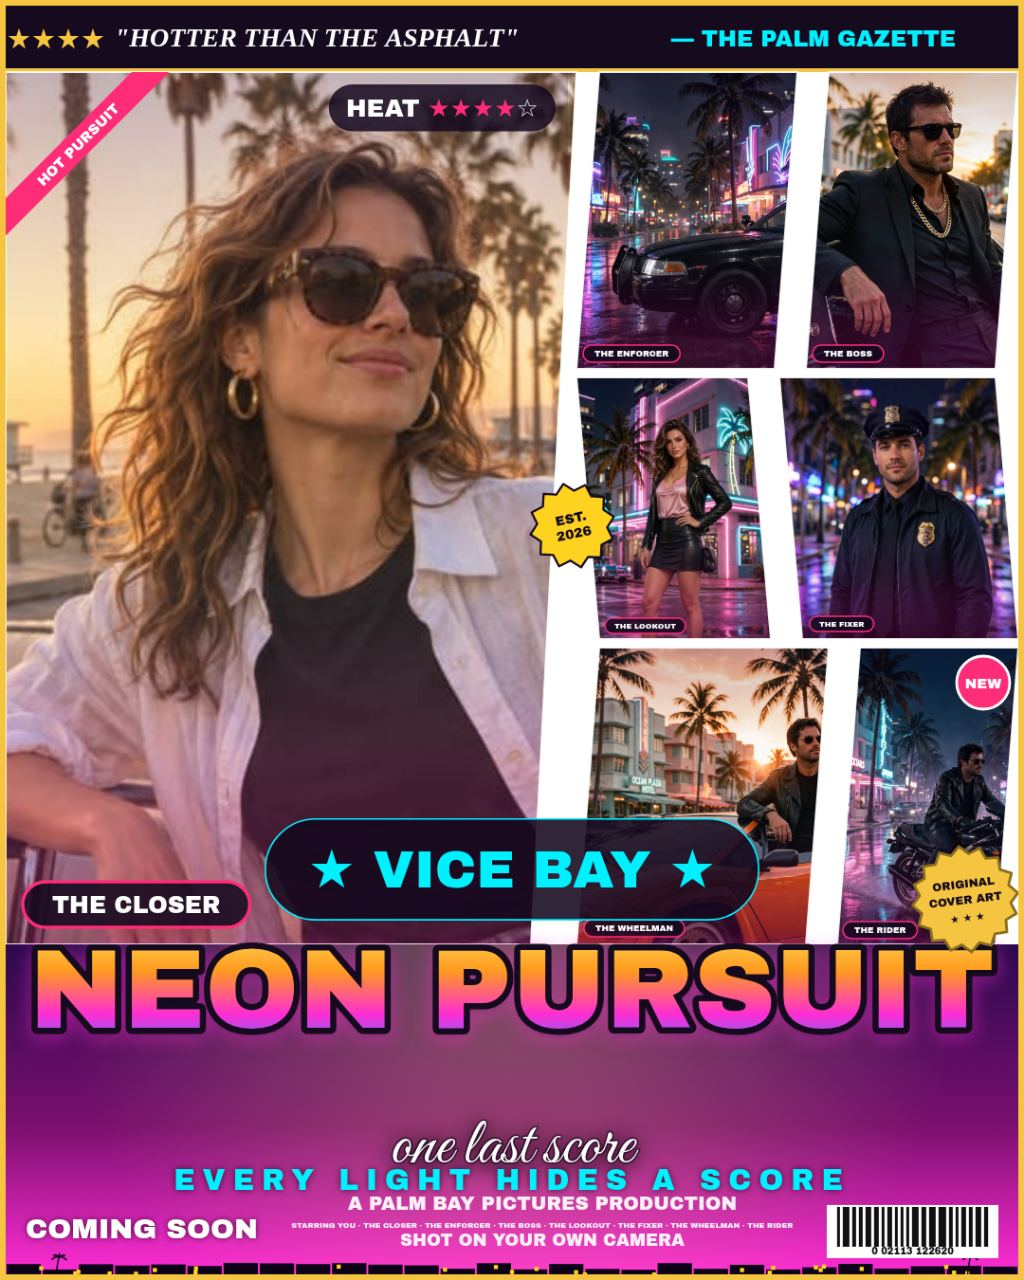
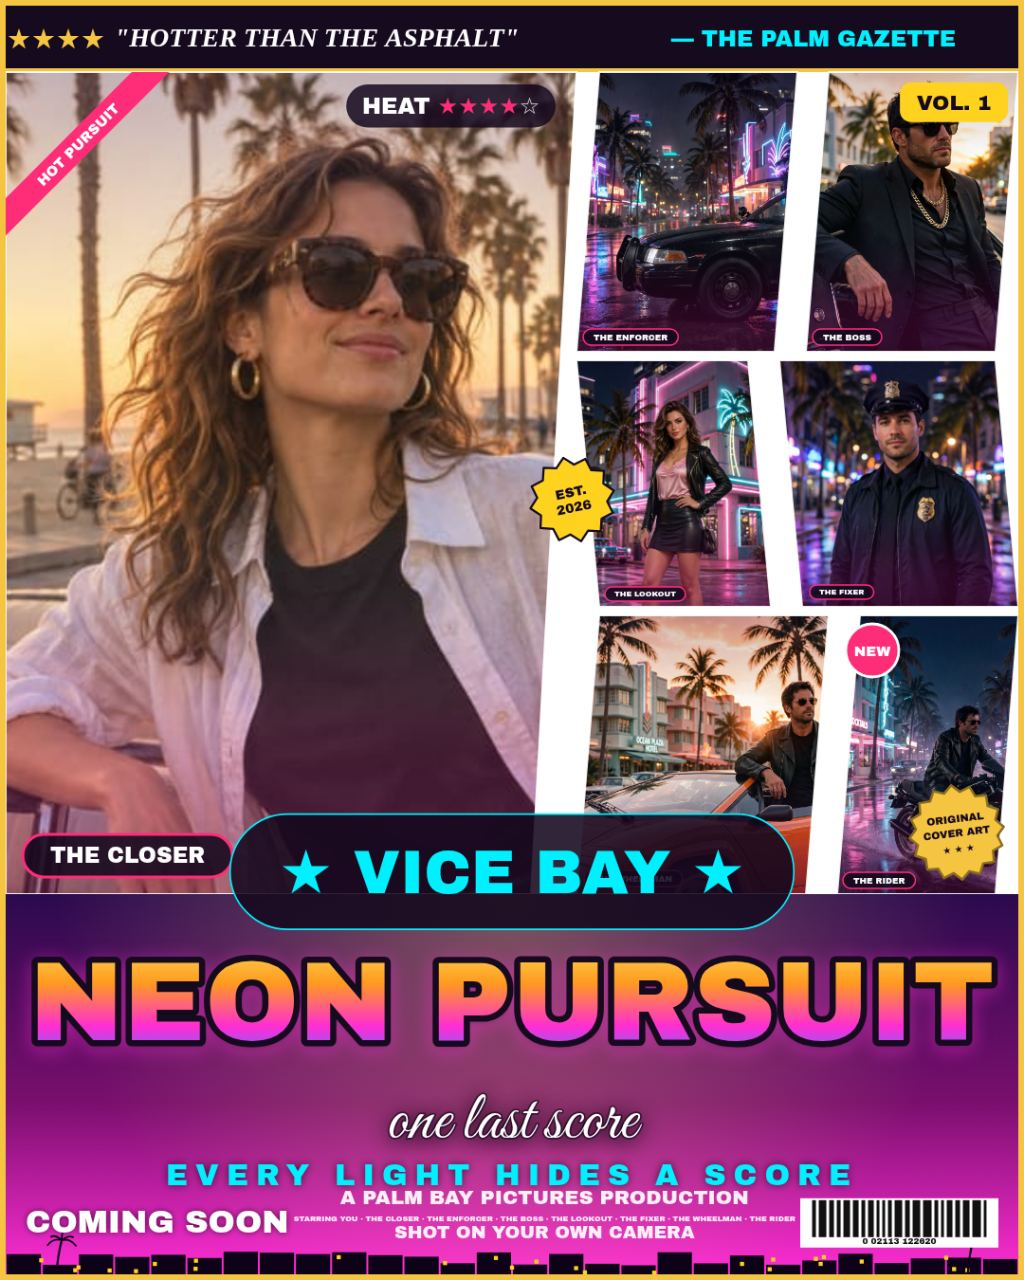
v2 fix3: chrome-striped 3D title, billing clearance, seal repositioned, VOL. 1 + taller skyline
- Title: chrome-striped gradient (PALM FEVER style) + dark 3D extrusion,
  banner 0.26->0.30 so the title is ~15% bigger; width-limited titles now
  centre in the space above the script (fixes portrait dead space)
- Billing: lines raised with real gaps (fonts 0.052/0.05/0.048, y 0.815/0.86/
  0.905); tagline smaller (0.08) at 0.765 — no more clipped last line and no
  more script/tagline collision (noir 'midnight has no alibi' vs tagline)
- Seal: smaller (0.046w), fully inside the collage corner, clear of frame,
  title and NEW badge; NEW moved to v6 top-left
- New: gold VOL. 1 pill at the collage top-right; skyline strip 0.035->0.06
  so the silhouette band reads like VICE SUNSET's
- Verified: 4 screenshots re-rendered (all <=256KiB), CDP 0 console errors /
  0 failed / 0 external requests, 3 exports written, dossier exit 0

diff --git a/app/src/cover.js b/app/src/cover.js
@@ -1,14 +1,15 @@
-// Vice Cover poster renderer v2: a GTA key-art collage — a review-quote strip across the
+// Vice Cover poster renderer v2 + fix3: a GTA key-art collage — a review-quote strip across the
 // top, one big pop-out hero panel on the left with a slanted edge, six vignettes on the right
 // in a staggered collage (uneven row heights, alternating splits, slanted shared edges —
 // never a uniform grid), and a sunset banner along the foot with a skyline silhouette. The
-// title is huge and gradient with a thick dark outline, straddling the collage and the
-// banner; under it a script subtitle, a spaced-caps tagline, then a billing block (COMING
-// SOON, production credit + STARRING cast, barcode). Every panel carries a cast-style role
-// tag (THE CLOSER, THE BOSS, ...), a gold ORIGINAL COVER ART seal sits on the collage's
-// bottom-right corner, and the usual badges (location pill, EST. starburst, NEW circle,
-// HEAT stars, diagonal ribbon) complete the poster look. Everything is drawn from scratch
-// on canvas; no Rockstar logo, artwork or font is used anywhere.
+// title is huge, chrome-striped with a 3D extrusion and a thick dark outline, straddling the
+// collage and the banner; under it a script subtitle, a spaced-caps tagline, then a billing
+// block (COMING SOON, production credit + STARRING cast, barcode) with clear margin above the
+// skyline. Every panel carries a cast-style role tag (THE CLOSER, THE BOSS, ...), a gold
+// ORIGINAL COVER ART seal sits fully inside the collage's bottom-right corner, and the usual
+// badges (location pill, EST. starburst, NEW circle, VOL. 1 pill, HEAT stars, diagonal ribbon)
+// complete the poster look. Everything is drawn from scratch on canvas; no Rockstar logo,
+// artwork or font is used anywhere.
 
 export const GRADES = {
   sunset: {
@@ -17,7 +18,7 @@ export const GRADES = {
     filter: 'sepia(0.20) saturate(1.15)',
     accent: '#ffd21f',
     glow: 'rgba(255,45,120,0.55)',
-    titleStops: [[0, '#ffe14d'], [0.18, '#fff6b0'], [0.5, '#ff7a1a'], [0.8, '#ff2d78'], [1, '#c026d3']],
+    titleStops: [[0, '#fff8c4'], [0.25, '#ffd21f'], [0.38, '#ffffff'], [0.5, '#ff9e2c'], [0.65, '#ff2d78'], [0.8, '#e85df0'], [1, '#8b1fa8']],
     bannerStops: [[0, '#ff2d78'], [0.55, '#ff5e3a'], [1, '#ffb347']],
     skyline: '#1a0b2e',
   },
@@ -52,7 +53,7 @@ export function posterLayout(w, h) {
   const gap = Math.max(3, Math.round(w * 0.008));
   const ix = frame, iy = frame, iw = w - frame * 2, ih = h - frame * 2;
   const quoteH = Math.round(ih * 0.052);
-  const bannerH = Math.round(ih * 0.26);
+  const bannerH = Math.round(ih * 0.30);
   const collageTop = iy + quoteH;
   const collageH = ih - quoteH - bannerH;
   const slant = Math.max(6, Math.round(w * 0.022));
@@ -276,7 +277,7 @@ function drawPalm(ctx, x, y, s, color) {
 
 /** Skyline silhouette along the bottom of the banner: dark buildings, lit windows, palms. */
 function drawSkyline(ctx, b, grade, w) {
-  const stripH = b.h * 0.035;
+  const stripH = b.h * 0.06;
   const baseY = b.y + b.h;
   ctx.save();
   ctx.fillStyle = grade.skyline;
@@ -408,7 +409,16 @@ function drawTitleBlock(ctx, L, state, grade, w) {
   const fitted = fitSize(ctx, title, maxW, Math.round(L.inner.w * 0.145), DISPLAY);
   const cap = Math.floor((L.banner.h * 0.52) / 0.84);
   const size = Math.min(fitted, cap);
-  const baseline = L.collageBottom + 2 + Math.round(size * 0.72);
+  let baseline = L.collageBottom + 2 + Math.round(size * 0.72);
+  // When the title is width-limited (portrait/square), centre it in the space above
+  // the script instead of pinning it to the seam — a tall banner leaves a dead gap
+  // under a small title otherwise.
+  if (fitted < cap) {
+    const scriptY = L.collageBottom + L.banner.h * 0.64;
+    const titleBottom = baseline + Math.round(size * 0.1) + Math.round(size * 0.04);
+    const slack = scriptY - Math.round(L.banner.h * 0.05) - titleBottom;
+    if (slack > 0) baseline += Math.round(slack / 2);
+  }
   const grad = ctx.createLinearGradient(0, baseline - size, 0, baseline + size * 0.1);
   for (const [stop, color] of grade.titleStops) grad.addColorStop(stop, color);
   ctx.save();
@@ -416,6 +426,12 @@ function drawTitleBlock(ctx, L, state, grade, w) {
   ctx.textBaseline = 'alphabetic';
   ctx.font = `${size}px ${DISPLAY}`;
   ctx.lineJoin = 'round';
+  // 3D extrusion: a dark copy of the title offset down, peeking out below the
+  // gradient fill — the flat title was the weakest part vs the top covers.
+  if (grade !== GRADES.noir) {
+    ctx.fillStyle = grade === GRADES.neon ? '#2a0a4e' : '#3a0a2e';
+    ctx.fillText(title, cx, baseline + Math.round(size * 0.04));
+  }
   ctx.shadowColor = grade.glow;
   ctx.shadowBlur = size * 0.16;
   ctx.shadowOffsetY = size * 0.03;
@@ -457,7 +473,7 @@ function drawTitleBlock(ctx, L, state, grade, w) {
   // written. Bigger and white with a dark outline + soft shadow, so it pops off the
   // bright banner gradient instead of fading into it.
   if (scriptSub) {
-    const scSize = Math.max(14, Math.round(L.banner.h * 0.20));
+    const scSize = Math.max(14, Math.round(L.banner.h * 0.18));
     ctx.save();
     ctx.font = scriptFont(scSize);
     ctx.textAlign = 'center';
@@ -468,9 +484,9 @@ function drawTitleBlock(ctx, L, state, grade, w) {
     ctx.shadowOffsetY = scSize * 0.05;
     ctx.strokeStyle = 'rgba(20,8,30,0.6)';
     ctx.lineWidth = scSize * 0.05;
-    ctx.strokeText(scriptSub, cx, L.collageBottom + L.banner.h * 0.66);
+    ctx.strokeText(scriptSub, cx, L.collageBottom + L.banner.h * 0.64);
     ctx.fillStyle = '#ffffff';
-    ctx.fillText(scriptSub, cx, L.collageBottom + L.banner.h * 0.66);
+    ctx.fillText(scriptSub, cx, L.collageBottom + L.banner.h * 0.64);
     ctx.restore();
   }
 
@@ -478,7 +494,7 @@ function drawTitleBlock(ctx, L, state, grade, w) {
   // a long tagline never runs past the frame at any export size.
   if (sub) {
     const maxSubW = L.inner.w * 0.96;
-    let subSize = Math.max(12, Math.round(L.banner.h * 0.09));
+    let subSize = Math.max(12, Math.round(L.banner.h * 0.08));
     ctx.save();
     try { ctx.letterSpacing = `${Math.round(subSize * 0.25)}px`; } catch { /* older canvas */ }
     ctx.font = `${subSize}px ${DISPLAY}`;
@@ -492,7 +508,7 @@ function drawTitleBlock(ctx, L, state, grade, w) {
     ctx.shadowColor = 'rgba(0,0,0,0.65)';
     ctx.shadowBlur = subSize * 0.25;
     ctx.fillStyle = grade.accent;
-    ctx.fillText(sub, cx, L.collageBottom + L.banner.h * 0.745);
+    ctx.fillText(sub, cx, L.collageBottom + L.banner.h * 0.765);
     try { ctx.letterSpacing = '0px'; } catch { /* older canvas */ }
     ctx.restore();
   }
@@ -532,9 +548,9 @@ function drawBilling(ctx, L, state, grade, w) {
   const line1 = 'A PALM BAY PICTURES PRODUCTION';
   const line2 = roles.length ? `STARRING YOU · ${roles.join(' · ')}` : '';
   const line3 = 'SHOT ON YOUR OWN CAMERA';
-  const y1 = L.collageBottom + b.h * 0.805;
+  const y1 = L.collageBottom + b.h * 0.815;
   const y2 = L.collageBottom + b.h * 0.86;
-  const y3 = L.collageBottom + b.h * 0.915;
+  const y3 = L.collageBottom + b.h * 0.905;
   const sidePad = Math.round(b.w * 0.02);
 
   // COMING SOON, left, vertically centred on the three billing lines.
@@ -553,9 +569,9 @@ function drawBilling(ctx, L, state, grade, w) {
 
   // Barcode, right.
   const barW = Math.round(b.h * 0.52);
-  const barH = Math.round(b.h * 0.16);
+  const barH = Math.round(b.h * 0.13);
   const barX = b.x + b.w - sidePad - barW;
-  const barY = L.collageBottom + b.h * 0.79;
+  const barY = L.collageBottom + b.h * 0.80;
   drawBarcode(ctx, barX, barY, barW, barH);
 
   // Billing lines, centred in the space between COMING SOON and the barcode, with a
@@ -566,25 +582,26 @@ function drawBilling(ctx, L, state, grade, w) {
   ctx.textAlign = 'center';
   ctx.textBaseline = 'alphabetic';
   ctx.fillStyle = 'rgba(255,255,255,0.92)';
-  const s1 = fitSizeSmall(ctx, line1, maxW, Math.max(10, Math.round(b.h * 0.058)), DISPLAY);
+  const s1 = fitSizeSmall(ctx, line1, maxW, Math.max(10, Math.round(b.h * 0.052)), DISPLAY);
   ctx.font = `${s1}px ${DISPLAY}`;
   ctx.fillText(line1, cx, y1);
   if (line2) {
-    const s2 = fitSizeSmall(ctx, line2, maxW, Math.max(10, Math.round(b.h * 0.054)), DISPLAY);
+    const s2 = fitSizeSmall(ctx, line2, maxW, Math.max(10, Math.round(b.h * 0.05)), DISPLAY);
     ctx.font = `${s2}px ${DISPLAY}`;
     ctx.fillText(line2, cx, y2);
   }
-  const s3 = fitSizeSmall(ctx, line3, maxW, Math.max(10, Math.round(b.h * 0.052)), DISPLAY);
+  const s3 = fitSizeSmall(ctx, line3, maxW, Math.max(10, Math.round(b.h * 0.048)), DISPLAY);
   ctx.font = `${s3}px ${DISPLAY}`;
   ctx.fillText(line3, cx, y3);
   ctx.restore();
 }
 
-/** Gold serrated seal: ORIGINAL COVER ART, stuck on the collage's bottom-right corner. */
+/** Gold serrated seal: ORIGINAL COVER ART, fully inside the collage's bottom-right
+ * corner with clear space from the frame, the title and the NEW badge. */
 function drawSeal(ctx, L, grade, w) {
-  const r = Math.max(30, Math.round(w * 0.052));
-  const cx = L.inner.x + L.inner.w - r;
-  const cy = L.collageBottom - r * 0.85;
+  const r = Math.max(30, Math.round(w * 0.046));
+  const cx = L.inner.x + L.inner.w - r * 1.3;
+  const cy = L.collageBottom - r * 1.3;
   ctx.save();
   ctx.translate(cx, cy);
   ctx.rotate(-0.12);
@@ -676,9 +693,10 @@ function drawBadges(ctx, L, state, grade, w) {
   ctx.fillText('2026', 0, sr * 0.20);
   ctx.restore();
 
-  // Pink NEW circle on the bottom-right vignette (v6).
+  // Pink NEW circle on the top-LEFT of the bottom-right vignette (v6): the old
+  // top-right spot overlapped the gold seal. Top-left keeps it clear of the seal.
   const nr = Math.max(16, Math.round(w * 0.026));
-  const ncx = L.v6.x + L.v6.w - nr - Math.round(w * 0.008);
+  const ncx = L.v6.x + nr + Math.round(w * 0.008);
   const ncy = L.v6.y + nr + Math.round(w * 0.008);
   ctx.save();
   ctx.beginPath();
@@ -693,6 +711,24 @@ function drawBadges(ctx, L, state, grade, w) {
   ctx.textAlign = 'center';
   ctx.textBaseline = 'middle';
   ctx.fillText('NEW', ncx, ncy + nr * 0.05);
+  ctx.restore();
+
+  // Gold VOL. 1 pill at the collage's top-right corner (v2), like the top covers.
+  const volSize = Math.max(12, Math.round(w * 0.02));
+  ctx.save();
+  ctx.font = `${volSize}px ${DISPLAY}`;
+  const volLabel = 'VOL. 1';
+  const vw = ctx.measureText(volLabel).width + volSize * 1.6;
+  const vh = volSize * 1.9;
+  const vx = L.v2.x + L.v2.w - vw - Math.round(w * 0.01);
+  const vy = L.v2.y + Math.round(w * 0.01);
+  ctx.fillStyle = '#ffd21f';
+  roundRect(ctx, vx, vy, vw, vh, vh * 0.28);
+  ctx.fill();
+  ctx.fillStyle = '#160a1e';
+  ctx.textAlign = 'center';
+  ctx.textBaseline = 'middle';
+  ctx.fillText(volLabel, vx + vw / 2, vy + vh / 2 + volSize * 0.04);
   ctx.restore();
 }
 
